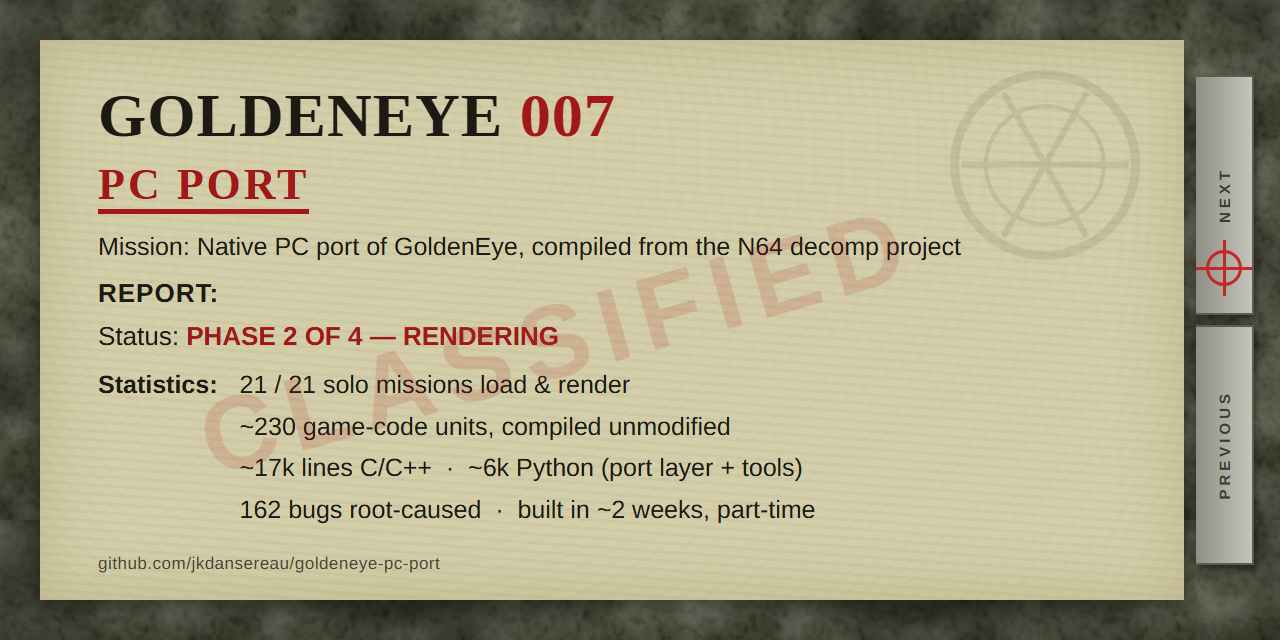
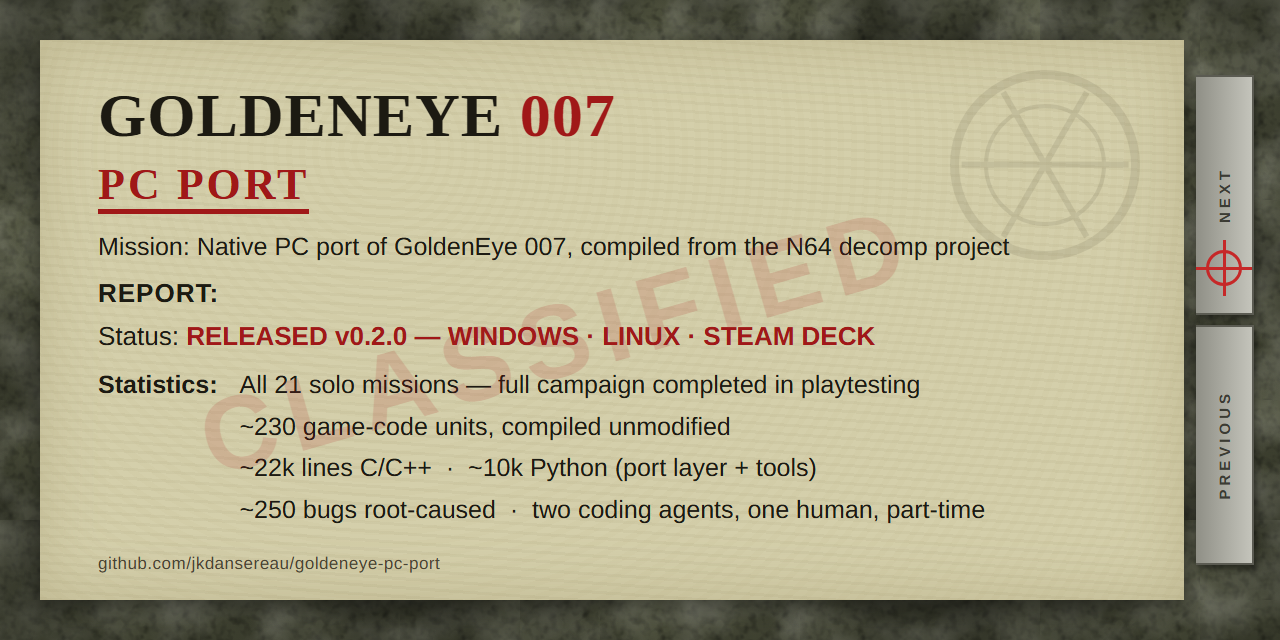
Social preview: regenerate card from updated briefing HTML (v0.2.0 final wording)
The PNG committed earlier was a screenshot of the rendered site (stale
wording, video element unrendered). The canonical source is
.github/social-preview.html per .github/social-preview.md; update its
Status/Statistics lines to the v0.2.0 final state and re-render:

- Status: RELEASED v0.2.0 — WINDOWS · LINUX · STEAM DECK
- All 21 solo missions — full campaign completed in playtesting
- ~22k lines C/C++ · ~10k Python (port layer + tools)
- ~250 bugs root-caused · two coding agents, one human, part-time

Verified by pixel-diff against the previous render: only the four text
bands changed; title/fonts/layout identical. Drop the unreferenced
root-level social-preview.png.

diff --git a/.github/social-preview.html b/.github/social-preview.html
@@ -118,18 +118,18 @@
     <div class="h1">GOLDENEYE <span class="r">007</span><br><small>PC&nbsp;PORT</small></div>
 
     <div class="meta">
-      Mission: Native PC port of GoldenEye, compiled from the N64 decomp project
+      Mission: Native PC port of GoldenEye 007, compiled from the N64 decomp project
     </div>
 
     <div class="rep">REPORT:</div>
 
     <div class="rows">
-      <div class="statusline">Status: <span class="status">ALPHA v0.1.0 &mdash; PHASE 2 OF 4</span></div>
+      <div class="statusline">Status: <span class="status">RELEASED v0.2.0 &mdash; WINDOWS &middot; LINUX &middot; STEAM DECK</span></div>
       <div class="stats">
-        <span class="k">Statistics:</span><span>19 / 21 solo missions completable in a full playthrough</span>
+        <span class="k">Statistics:</span><span>All 21 solo missions &mdash; full campaign completed in playtesting</span>
         <span></span><span>~230 game-code units, compiled unmodified</span>
-        <span></span><span>~17k lines C/C++ &nbsp;&middot;&nbsp; ~6k Python  (port layer + tools)</span>
-        <span></span><span>~190 bugs root-caused &nbsp;&middot;&nbsp; built in ~3 weeks, part-time</span>
+        <span></span><span>~22k lines C/C++ &nbsp;&middot;&nbsp; ~10k Python  (port layer + tools)</span>
+        <span></span><span>~250 bugs root-caused &nbsp;&middot;&nbsp; two coding agents, one human, part-time</span>
       </div>
     </div>
 
